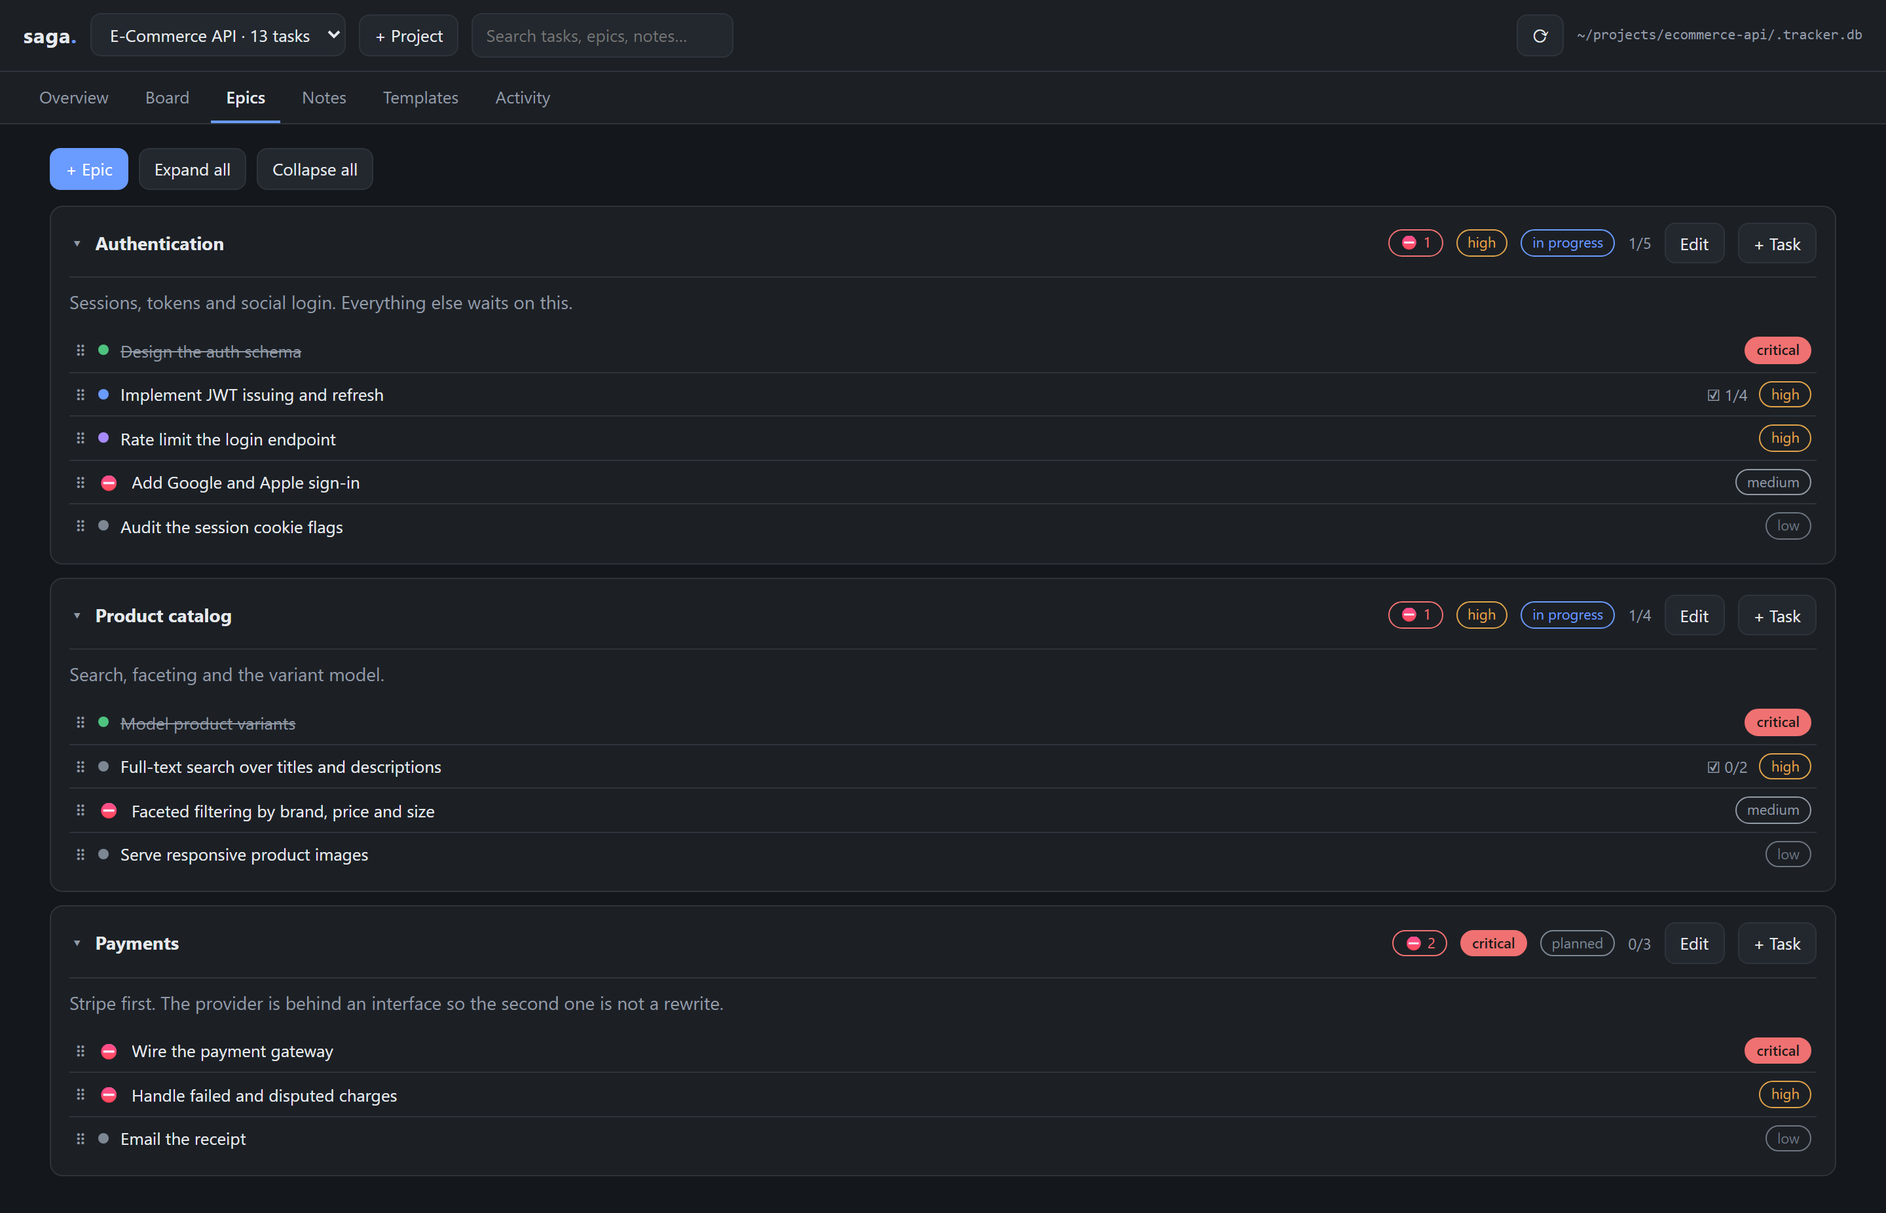
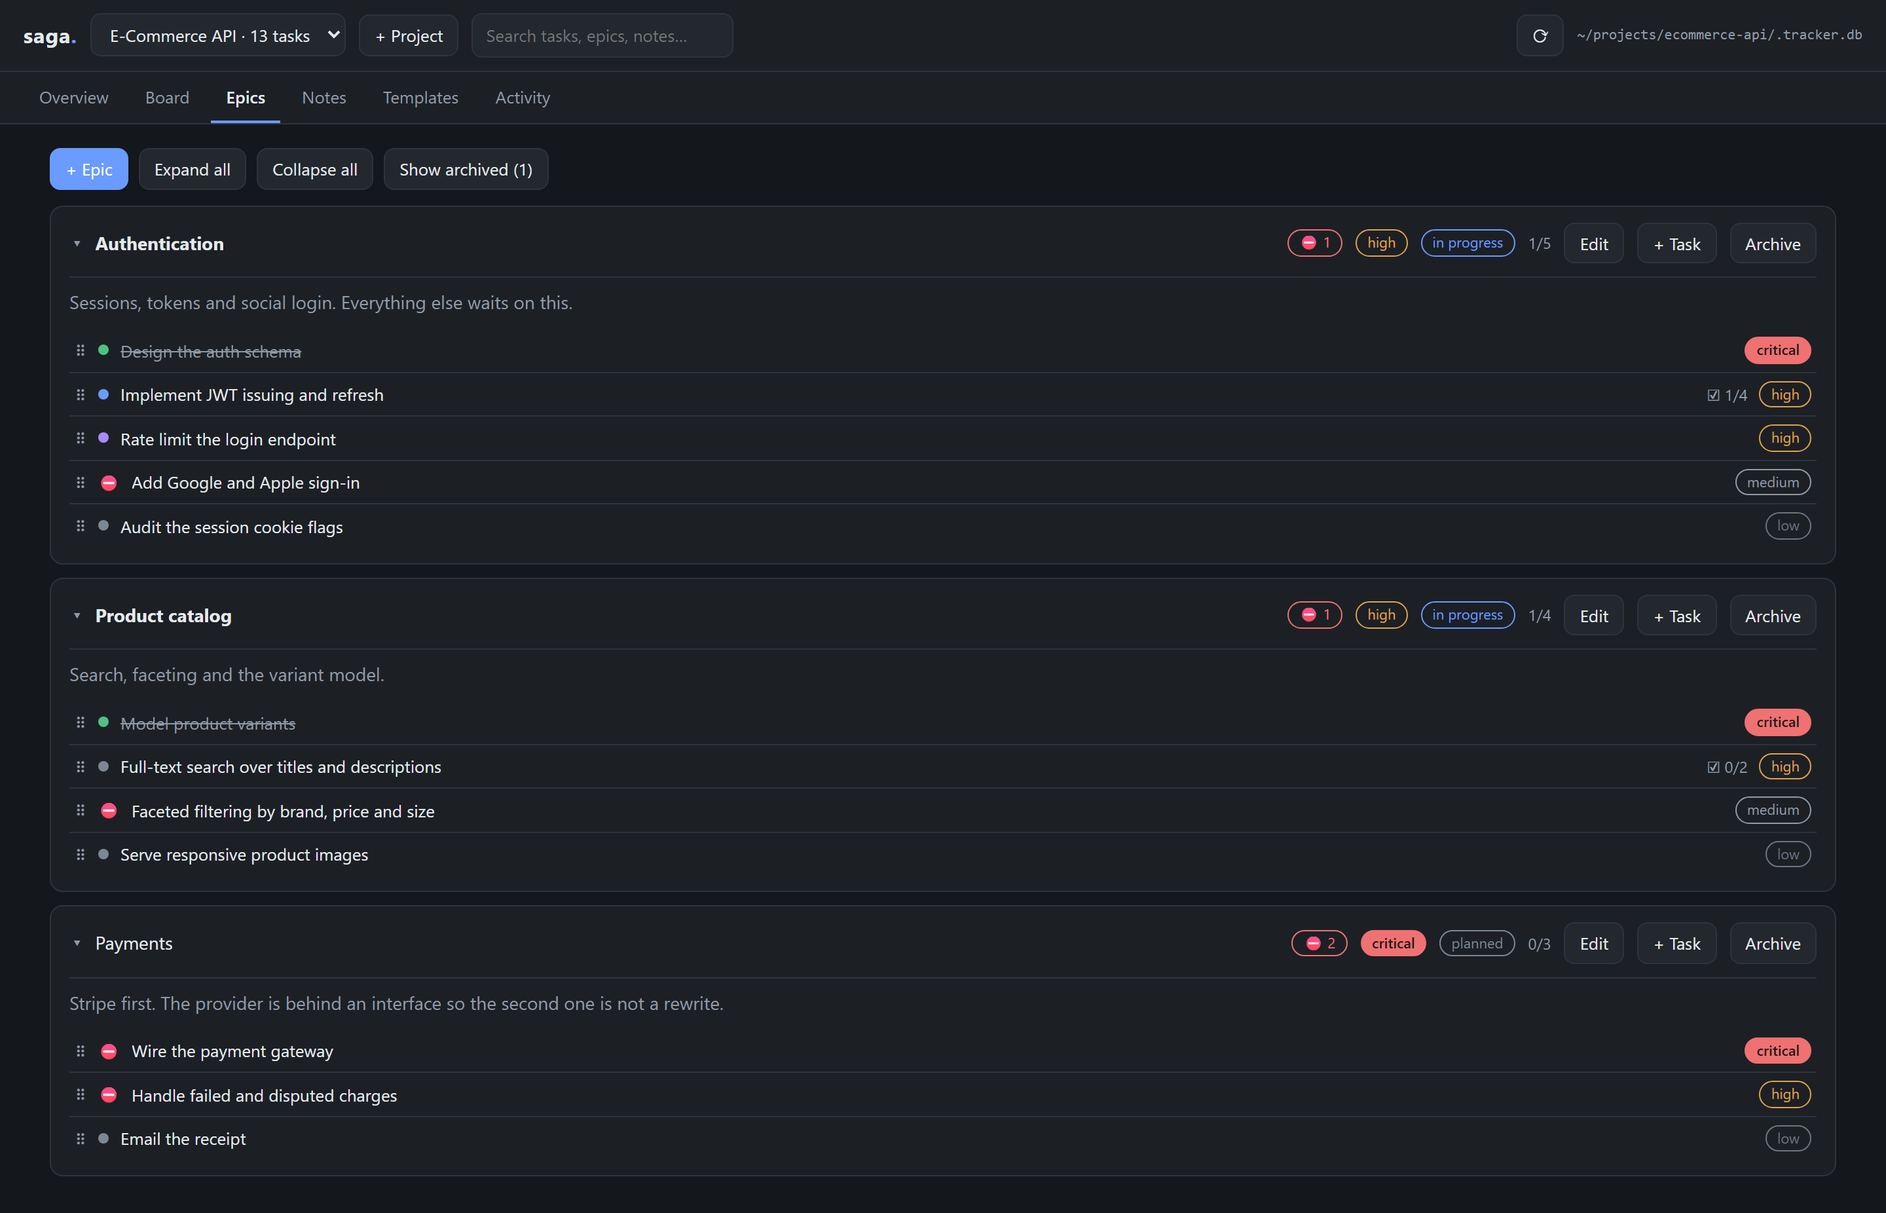
Archive an epic from the Epics tab, and read its status at a glance (#56)
A follow-up to #30, reported by @rusak47: the archive controls only ever
existed on the Overview, and an epic's status was carried by its colour
pill and nothing else.

**Archive parity.** The Epics tab now carries the per-epic
Archive/Unarchive button, the "archived" marker, the dimmed card and the
divider the Overview already drew — and the same show-archived switch,
because "hidden by default" is only honest if the tab doing the hiding
can also bring them back. @rusak47 picked hidden-by-default here: the
Overview links into the Epics tab, so keeping archived work out of the
default view keeps that path clean.

Both listings render through one set of helpers rather than a second
copy. The recurring defect in this UI is a treatment added to one
renderer and not its sibling (#37, #49), and two copies of the archive
chrome is exactly how that happens again.

**Status at a glance.** Completed and cancelled epics read struck
through and dimmed, exactly as finished tasks have since #49; bold is
reserved for work actually in progress. Applied wherever an epic name is
drawn — the Overview, the Epics tab and search results — not only in the
view the report was about.

**Two things found on the way.**

Archived epics did not sort last. `ORDER BY e.sort_order, e.created_at`
with sort_order defaulting to 0 leaves them in creation order, so
archiving an old epic and then showing archived drew the "archived"
divider at the top of the list and swept every live epic underneath it.
[…]

diff --git a/src/web/ui.ts b/src/web/ui.ts
@@ -881,6 +881,47 @@ function render() {
   (fns[S.tab] || viewOverview)();
 }
 
+/* ---------- epic chrome, shared by the overview and the epics tab ---------- */
+
+/**
+ * An epic's name carries its status the way a task's title does (#54, reported
+ * by @rusak47). Completed and cancelled epics read struck through and dimmed,
+ * exactly like a done task (#49); bold is kept for the work actually in
+ * progress. The status pill used to be the only signal, so down a long list a
+ * finished epic and a planned one looked alike.
+ */
+function epicName(e) {
+  var retired = e.status === 'completed' || e.status === 'cancelled';
+  var name = esc(e.name);
+  return '<span class="grow ellip' + (retired ? ' muted strike' : '') + '">' +
+    (e.status === 'in_progress' ? '<strong>' + name + '</strong>' : name) + '</span>';
+}
+
+/** The marker that says why an epic is missing from the default listings. */
+function archivedPill(e) {
+  return e.archived ? '<span class="pill pr-low" title="Hidden from listings">archived</span>' : '';
+}
+
+/** Archive/unarchive one epic. Every tab that lists epics offers it (#54). */
+function archiveButton(e) {
+  return '<button class="btn" data-archive-epic="' + e.id + '" data-archived="' + (e.archived ? 1 : 0) + '">' +
+    (e.archived ? 'Unarchive' : 'Archive') + '</button>';
+}
+
+/**
+ * The show/hide-archived switch. Archived epics stay out of the default view on
+ * every tab, so the tab that hides them has to be able to bring them back —
+ * otherwise a toggle on one tab silently changed what another one rendered.
+ */
+function archivedToggle() {
+  var o = S.overview || {};
+  var epics = (o.hidden && o.hidden.archived_epics) || 0;
+  var tasks = (o.hidden && o.hidden.removed_tasks) || 0;
+  if (!epics && !tasks) return '';
+  return '<button class="btn" id="toggleArchived">' + (S.showArchived ? 'Hide' : 'Show') + ' archived' +
+    (epics ? ' (' + epics + ')' : '') + '</button>';
+}
+
 /* ---------- overview ---------- */
 
 function viewOverview() {
@@ -902,14 +943,10 @@ function viewOverview() {
     '<div style="margin-top:10px">' + progressBar(s.completion_pct) + '</div>' +
     '</div>';
 
-  var hiddenEpics = (o.hidden && o.hidden.archived_epics) || 0;
-  var hiddenTasks = (o.hidden && o.hidden.removed_tasks) || 0;
+  var toggle = archivedToggle();
   h += '<h2>Epics <span class="muted">(' + o.epics.filter(function (e) { return !e.archived; }).length + ')</span>' +
        (canEdit() ? ' <button class="btn" id="newEpic">+ Epic</button>' : '') +
-       (hiddenEpics || hiddenTasks
-         ? ' <button class="btn" id="toggleArchived">' + (S.showArchived ? 'Hide' : 'Show') + ' archived' +
-           (hiddenEpics ? ' (' + hiddenEpics + ')' : '') + '</button>'
-         : '') + '</h2>';
+       (toggle ? ' ' + toggle : '') + '</h2>';
   if (!o.epics.length) h += '<p class="empty">No epics yet.</p>';
   var shownEpics = o.epics.slice();
   var archivedShown = false;
@@ -920,12 +957,11 @@ function viewOverview() {
       h += '<div class="hiddenbar"><hr>archived<hr></div>';
     }
     h += '<div class="card' + (e.archived ? ' archived' : '') + '" data-epic-open="' + e.id + '" style="cursor:pointer">' +
-      '<div class="row"><span class="grow ellip"><strong>' + esc(e.name) + '</strong></span>' +
+      '<div class="row">' + epicName(e) +
       (e.branch ? '<span class="pill pr-low" title="branch">⎇ ' + esc(e.branch) + '</span> ' : '') +
-      (e.archived ? '<span class="pill pr-low" title="Hidden from listings">archived</span> ' : '') +
+      archivedPill(e) +
       pill('pr', e.priority) + ' ' + pill('st', e.status) +
-      (canEdit() ? ' <button class="btn" data-archive-epic="' + e.id + '" data-archived="' + (e.archived ? 1 : 0) + '">' +
-        (e.archived ? 'Unarchive' : 'Archive') + '</button>' : '') + '</div>' +
+      (canEdit() ? archiveButton(e) : '') + '</div>' +
       '<div class="row" style="margin-top:8px"><span class="grow">' + progressBar(e.completion_pct) + '</span>' +
       '<span class="muted" style="font-size:12px">' + (e.done_count || 0) + '/' + (e.task_count || 0) +
       (e.blocked_count ? ' · ' + e.blocked_count + ' blocked' : '') + '</span></div></div>';
@@ -1019,23 +1055,34 @@ function viewEpics() {
   var h = '<div class="toolbar">' +
     (canEdit() ? '<button class="btn primary" id="newEpic">+ Epic</button>' : '') +
     '<button class="btn" id="expandAll">Expand all</button>' +
-    '<button class="btn" id="collapseAll">Collapse all</button></div>';
+    '<button class="btn" id="collapseAll">Collapse all</button>' +
+    archivedToggle() + '</div>';
   if (!o.epics.length) h += '<p class="empty">No epics yet.</p>';
 
+  var archivedShown = false;
   o.epics.forEach(function (e) {
     var open = S.epicOpen[e.id];
     var list = byEpic[e.id] || [];
-    h += '<div class="card"><div class="epic-head">' +
+    // Archived epics sort below a divider rather than mixing in, as on the overview.
+    if (e.archived && !archivedShown) {
+      archivedShown = true;
+      h += '<div class="hiddenbar"><hr>archived<hr></div>';
+    }
+    h += '<div class="card' + (e.archived ? ' archived' : '') + '"><div class="epic-head">' +
       '<span class="caret grow row" data-toggle="' + e.id + '" style="cursor:pointer">' +
         '<span class="muted">' + (open ? '▾' : '▸') + '</span>' +
-        '<span class="grow ellip"><strong>' + esc(e.name) + '</strong></span></span>' +
+        epicName(e) + '</span>' +
       (e.branch ? '<span class="pill pr-low">⎇ ' + esc(e.branch) + '</span>' : '') +
+      archivedPill(e) +
       (e.blocked_count ? '<span class="pill blockedpill" title="' + e.blocked_count +
         ' task(s) in this epic are blocked">\u26D4 ' + e.blocked_count + '</span>' : '') +
       pill('pr', e.priority) + pill('st', e.status) +
       '<span class="muted" style="font-size:12px">' + (e.done_count || 0) + '/' + (e.task_count || 0) + '</span>' +
       (canEdit() ? '<button class="btn" data-edit-epic="' + e.id + '">Edit</button>' +
-                   '<button class="btn" data-new-task="' + e.id + '">+ Task</button>' : '') +
+                   // An archived epic takes no new work: a task added here would
+                   // vanish from every listing the moment it was saved.
+                   (e.archived ? '' : '<button class="btn" data-new-task="' + e.id + '">+ Task</button>') +
+                   archiveButton(e) : '') +
       '</div>';
     if (open) {
       h += '<div class="epic-body">' +
@@ -1234,7 +1281,7 @@ function renderSearch() {
       total += r.epics.length;
       h += '<h2>Epics</h2>' + r.epics.map(function (e) {
         return '<div class="tline" data-goto-epic="' + e.id + '" data-project="' + e.project_id + '">' +
-          '<span class="dot st-' + esc(e.status) + '"></span><span class="grow ellip">' + esc(e.name) + '</span>' +
+          '<span class="dot st-' + esc(e.status) + '"></span>' + epicName(e) +
           '<span class="muted" style="font-size:12px">' + esc(e.project_name) + '</span></div>';
       }).join('');
     }

diff --git a/test/page.test.js b/test/page.test.js
@@ -32,8 +32,10 @@ function element() {
 /** Run the page with stubs, and a fetch that answers from `routes`. */
 function runPage(routes = {}, hash = '') {
   const calls = [];
+  // Keyed by id, so a view that writes into el('view') can be read back.
+  const nodes = {};
   const doc = {
-    getElementById: () => element(),
+    getElementById: (id) => (nodes[id] ||= element()),
     querySelector: () => null,
     querySelectorAll: () => [],
     createElement: () => element(),
@@ -69,7 +71,7 @@ function runPage(routes = {}, hash = '') {
   ctx.window.document = doc;
   createContext(ctx);
   runInContext(script, ctx);
-  return { ctx, calls, listeners, location };
+  return { ctx, calls, listeners, location, nodes };
 }
 
 const emptyRoutes = { '/api/projects': { projects: [], db_path: '/tmp/x.tracker.db', read_only: false } };
@@ -179,6 +181,116 @@ test('the task drawer offers a refresh control', () => {
 test('every write still goes through the guarded action endpoint', () => {
   assert.ok(script.includes("'/api/action'"));
   assert.ok(script.includes("'x-saga-ui': '1'"), 'the CSRF header must not be dropped');
+});
+
+/* ---------- epic listings (#54) ---------- */
+
+/** Run one view function over stubbed epics, and return the HTML it wrote. */
+function renderEpics(view, epics, opts = {}) {
+  const { ctx, nodes } = runPage(emptyRoutes);
+  ctx.S.readOnly = opts.readOnly ?? false;
+  ctx.S.showArchived = opts.showArchived ?? false;
+  ctx.S.tasks = opts.tasks ?? [];
+  ctx.S.overview = {
+    project: { id: 1, name: 'P', status: 'active' },
+    stats: { completion_pct: 0 },
+    epics,
+    overdue_tasks: [],
+    blocked_tasks: [],
+    hidden: opts.hidden ?? { archived_epics: 0, removed_tasks: 0 },
+  };
+  ctx[view]();
+  return nodes.view.innerHTML;
+}
+
+const live = { id: 1, name: 'Billing core', status: 'in_progress', priority: 'high' };
+const shelved = { id: 2, name: 'Legacy imports', status: 'completed', priority: 'low', archived: 1 };
+const withArchived = { showArchived: true, hidden: { archived_epics: 1, removed_tasks: 0 } };
+
+test('the epics tab can archive an epic without a detour through the overview', () => {
+  const html = renderEpics('viewEpics', [live]);
+  assert.match(html, /data-archive-epic="1" data-archived="0">Archive<\/button>/);
+});
+
+test('an archived epic on the epics tab is marked, and can be brought back', () => {
+  const html = renderEpics('viewEpics', [shelved], withArchived);
+  assert.match(html, /<div class="card archived">/, 'the card must look archived');
+  assert.match(html, /title="Hidden from listings">archived<\/span>/, 'and say why it is hidden');
+  assert.match(html, /data-archive-epic="2" data-archived="1">Unarchive<\/button>/);
+});
+
+test('archived epics fall below a divider rather than mixing in', () => {
+  const html = renderEpics('viewEpics', [live, shelved], withArchived);
+  const divider = html.indexOf('hiddenbar');
+  assert.ok(divider > -1, 'the epics tab needs the same divider the overview draws');
+  assert.ok(html.indexOf('Billing core') < divider, 'live epics belong above it');
+  assert.ok(html.indexOf('Legacy imports') > divider, 'archived ones below');
+});
+
+test('both epic listings offer the same show-archived switch', () => {
+  const opts = { hidden: { archived_epics: 2, removed_tasks: 0 } };
+  for (const view of ['viewOverview', 'viewEpics']) {
+    assert.match(renderEpics(view, [live], opts), /id="toggleArchived">Show archived \(2\)</, view);
+  }
+});
+
+test('with nothing hidden, neither listing shows the switch', () => {
+  for (const view of ['viewOverview', 'viewEpics']) {
+    assert.ok(!renderEpics(view, [live]).includes('toggleArchived'), view);
+  }
+});
+
+test('an epic reads as finished wherever it is listed', () => {
+  // The status pill was the only signal, so a shipped epic and a planned one
+  // looked alike down a long list. Strike the finished ones as tasks are
+  // struck (#49), and keep bold for the work actually in progress.
+  const epics = [
+    { id: 1, name: 'Planned work', status: 'planned', priority: 'low' },
+    { id: 2, name: 'Live work', status: 'in_progress', priority: 'high' },
+    { id: 3, name: 'Shipped work', status: 'completed', priority: 'low' },
+    { id: 4, name: 'Dropped work', status: 'cancelled', priority: 'low' },
+  ];
+  for (const view of ['viewOverview', 'viewEpics']) {
+    const html = renderEpics(view, epics);
+    assert.match(html, /<strong>Live work<\/strong>/, view + ': in-progress stays bold');
+    assert.ok(!html.includes('<strong>Planned work</strong>'), view + ': bold is not the default');
+    assert.match(html, /muted strike">Shipped work</, view + ': completed is struck through');
+    assert.match(html, /muted strike">Dropped work</, view + ': cancelled is struck through');
+    assert.ok(!/strike">Live work/.test(html), view + ': live work is not struck through');
+  }
+});
+
+test('an archived epic does not invite new tasks', () => {
+  // A task created under an archived epic would vanish the moment it was saved.
+  assert.match(renderEpics('viewEpics', [live]), /data-new-task="1"/);
+  assert.ok(!renderEpics('viewEpics', [shelved], withArchived).includes('data-new-task'));
+});
+
+test('a search hit shows an epic the same way the listings do', async () => {
+  // The recurring defect in this UI is a treatment applied to one renderer and
+  // not its siblings (#37, #49), so the search row shares the same helper.
+  const { ctx, nodes } = runPage({
+    ...emptyRoutes,
+    '/api/search': {
+      tasks: [], notes: [], projects: [],
+      epics: [
+        { id: 3, name: 'Shipped work', status: 'completed', project_id: 1, project_name: 'P' },
+        { id: 4, name: 'Live work', status: 'in_progress', project_id: 1, project_name: 'P' },
+      ],
+    },
+  });
+  ctx.S.query = 'work';
+  ctx.renderSearch();
+  await new Promise((r) => setTimeout(r, 0));
+  assert.match(nodes.view.innerHTML, /muted strike">Shipped work/);
+  assert.match(nodes.view.innerHTML, /<strong>Live work<\/strong>/);
+});
+
+test('a read-only page offers no archive controls at all', () => {
+  for (const view of ['viewOverview', 'viewEpics']) {
+    const html = renderEpics(view, [live, shelved], { ...withArchived, readOnly: true });
+    assert.ok(!html.includes('data-archive-epic'), view);
+  }
 });
 
 /* ---------- CSS cascade ---------- */

diff --git a/test/web.test.js b/test/web.test.js
@@ -242,6 +242,19 @@ test('a taken explicit port fails loudly rather than moving', async () => {
   await assert.rejects(startWeb(['--port', '4457']), /already in use|exited with 1/);
 });
 
+test('archived epics sort last, whatever their place in the manual order', async () => {
+  // The UI draws one "archived" divider at the first archived row, so an
+  // archived epic sitting mid-order would sweep the live ones below it under
+  // that heading (#54).
+  const tools = await loadTools(dbPath);
+  const p = tools.project_create({ name: 'Ordering' });
+  const first = tools.epic_create({ project_id: p.id, name: 'Oldest' });
+  tools.epic_create({ project_id: p.id, name: 'Newest' });
+  tools.epic_archive({ id: first.id });
+  const o = await (await fetch(`${editable.base}/api/overview?project_id=${p.id}&include_archived=1`)).json();
+  assert.deepEqual(o.epics.map((e) => e.name), ['Newest', 'Oldest']);
+});
+
 test('a missing database is refused, not created', async () => {
   const child = spawn(process.execPath, ['dist/web/index.js', join(root, 'definitely-not-here.db')], {
     cwd: root, stdio: ['ignore', 'pipe', 'pipe'],

diff --git a/src/web/queries.ts b/src/web/queries.ts
@@ -57,6 +57,9 @@ export function getOverview(db: Database.Database, projectId: number, includeArc
     )
     .get(projectId);
 
+  // Archived epics sort last whatever their place in the manual order: the UI
+  // draws one "archived" divider at the first archived row, so an archived epic
+  // sitting mid-order would sweep every live epic below it under that heading.
   const epics = db
     .prepare(
       `SELECT e.*,
@@ -70,7 +73,7 @@ export function getOverview(db: Database.Database, projectId: number, includeArc
       LEFT JOIN tasks t ON t.epic_id = e.id${liveTasks}
       WHERE e.project_id = ?${archivedSql}
       GROUP BY e.id
-      ORDER BY e.sort_order, e.created_at`
+      ORDER BY e.archived, e.sort_order, e.created_at`
     )
     .all(projectId);
 

diff --git a/README.md b/README.md
@@ -301,7 +301,9 @@ task_delete({ id: 12, reason: "should have been a subtask" })
 Archiving is deliberately **not** the `cancelled` status: `cancelled` means "we decided not to do
 this", while most of what you want to archive is *completed*. Archived epics and their tasks
 disappear from `epic_list`, `tracker_dashboard`, `task_list` and `tracker_search` — including the
-statistics, not just the lists — and come back with `include_archived`.
+statistics, not just the lists — and come back with `include_archived`. In the web UI both the
+Overview and the Epics tab archive an epic, hide archived ones by default, and share one
+show-archived switch.
 
 Nothing vanishes silently. The dashboard says what it left out:
 
@@ -416,11 +418,12 @@ Six tabs:
 
 - **Epics** — the full Epic → Task → Subtask tree, which is the fastest way to review a spec an
   agent just wrote. Blocked tasks carry a ⛔ naming what they wait on, finished ones are struck
-  through, and tasks drag into order
+  through, and tasks drag into order. Epics read the same way — bold while in progress, struck
+  through once completed or cancelled — and each one archives from here as well as the Overview
 
 <picture>
   <source media="(prefers-color-scheme: dark)" srcset="https://raw.githubusercontent.com/spranab/saga-mcp/master/docs/screenshots/epics-dark.png">
-  <img alt="The epic tree, with blocked tasks marked and finished ones struck through" src="https://raw.githubusercontent.com/spranab/saga-mcp/master/docs/screenshots/epics-light.png">
+  <img alt="The epic tree, with epics and tasks struck through once finished and blocked tasks marked" src="https://raw.githubusercontent.com/spranab/saga-mcp/master/docs/screenshots/epics-light.png">
 </picture>
 
 - **Notes** — decisions, context and blockers
@@ -652,7 +655,7 @@ DB_PATH=./test.db npm start
 # the web UI against the same database
 node dist/web/index.js ./test.db --open
 
-npm test     # 298 unit and integration tests, no network
+npm test     # 326 unit and integration tests, no network
 npm run e2e  # release gate: packs a tarball, installs it, drives the real binaries
 ```
 
@@ -668,20 +671,20 @@ step, and it is triggered by publishing a GitHub release, not by pushing a tag.
 ```bash
 # 1. bump the version in package.json, manifest.json and server.json, then merge
 # 2. tag it. Nothing is published yet.
-git tag -a v1.16.0 -m "v1.16.0 — ..." && git push origin v1.16.0
+git tag -a v1.17.0 -m "v1.17.0 — ..." && git push origin v1.17.0
 
 # 3. verify the tagged build: this packs the tarball that would be published
 #    and drives it end to end, including an upgrade from an older database.
 npm run e2e
 
 # 4. publish the release. This fires the publish workflow.
-gh release create v1.16.0 --notes-file notes.md
+gh release create v1.17.0 --notes-file notes.md
 ```
 
 The workflow re-runs the suite against the tagged commit, refuses a tag that does not match
 `package.json`, refuses a version already on npm, and sends a GitHub *pre-release* to the `next`
 dist-tag so it never becomes what `npm install saga-mcp` gives people. A failed publish can be
-retried against the same tag with `gh workflow run "Publish to npm" -f tag=v1.16.0`.
+retried against the same tag with `gh workflow run "Publish to npm" -f tag=v1.17.0`.
 
 ---
 
